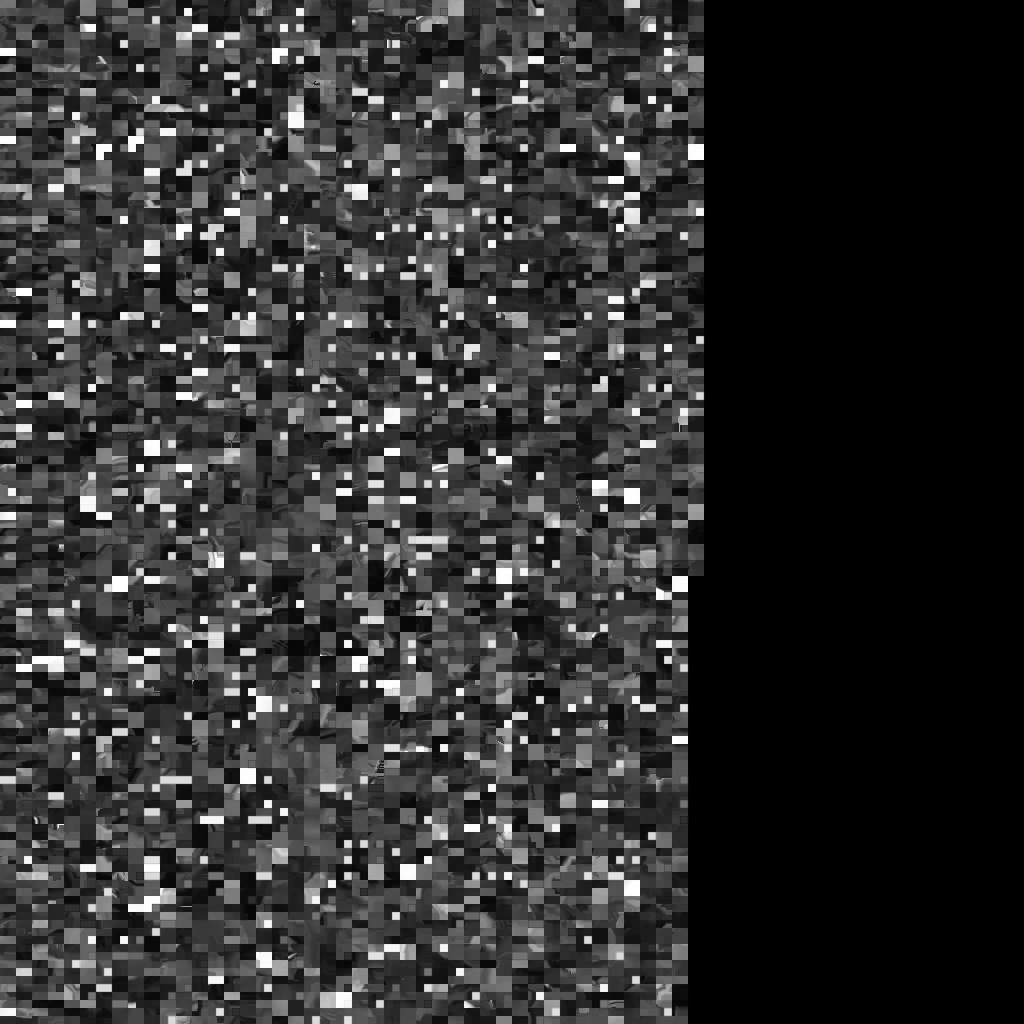
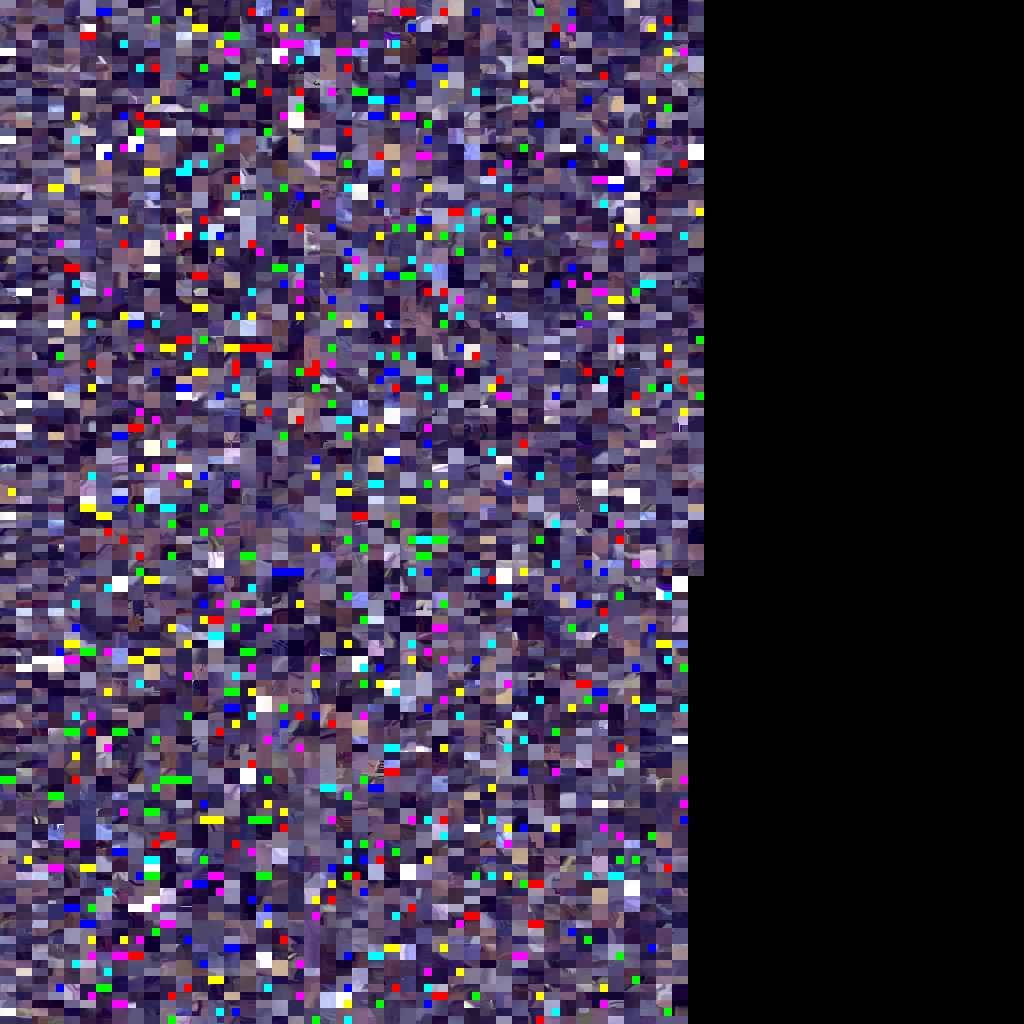
lighting

diff --git a/js/environment.js b/js/environment.js
@@ -106,7 +106,7 @@ var Environment =  {
 		Config.scene.add(cube);
 
 		var cube = new THREE.Mesh(new THREE.CubeGeometry(350, 150, 300), new THREE.MeshPhongMaterial());
-		cube.position.set(350,150,-170);
+		cube.position.set(350,150,-300);
 		Config.scene.add(cube);
 
 		var cube = new THREE.Mesh(new THREE.CubeGeometry(350, 150, 500), new THREE.MeshPhongMaterial());
@@ -170,7 +170,7 @@ var Environment =  {
 
 		var loader = new THREE.JSONLoader();
 	    loader.load( "room.js", function(geometry, materials){
-	      	mesh = new THREE.Mesh( geometry, new THREE.MeshFaceMaterial( materials ) );
+	      	mesh = new THREE.Mesh( geometry, new THREE.MeshLambertMaterial( materials ) );
 	      	mesh.position={x:0, y:0, z:0};
 	      	mesh.scale={x:40, y:40, z:40};
 	      	mesh.rotation.x = 90 * Math.PI/180;
@@ -179,8 +179,8 @@ var Environment =  {
 	      	mesh.name = 'room1';
 	      	Config.scene.add(mesh);
 
-	      	mesh = new THREE.Mesh( geometry, new THREE.MeshFaceMaterial( materials ) );
-	      	mesh.position={x:0, y:120, z:0};
+	      	mesh = new THREE.Mesh( geometry, new THREE.MeshLambertMaterial( materials ) );
+	      	mesh.position={x:0, y:150, z:0};
 	      	mesh.scale={x:40, y:40, z:40};
 	      	mesh.rotation.x = 90 * Math.PI/180;
 	      	mesh.rotation.y = 180 * Math.PI/180;
@@ -201,24 +201,24 @@ var Environment =  {
 
 	zoom: function(){
 
+		$("#enter").fadeOut();
 		this.canRotate = false;
 		room1 = Config.scene.getObjectByName('room1');
 		room1.visible = true;
 		
-		TweenLite.to(Config.camera.position,3, {x:0, y:0, z:50,  ease:Cubic.easeOut, onComplete:Environment.addAmbient});
-		// TweenLite.to(Config.camera.rotation,3, {x:0, y:0, z:0,  ease:Cubic.easeOut});
+		TweenLite.to(Config.camera.position,3, {x:0, y:0, z:50,  ease:Cubic.easeOut, onComplete:Environment.changeControls});
 		
-		
+		light = Config.scene.getObjectByName("ambi");
+		TweenLite.to(light.color,7, {r:.3, g:.3, b:.3,  ease:Cubic.easeOut, onComplete:Environment.changeControls});		
 
 
 	},
 
-	addAmbient: function(){
+	changeControls: function(){
 
-		controls = new THREE.DeviceOrientationControls(Config.camera);
-		controls.connect();
-		var ambientLight = new THREE.AmbientLight(0xffffff);
-      	Config.scene.add(ambientLight);
+		controls = new THREE.FlyControls(Config.camera);
+		controls.dragToLook = true;
+		
 
 	}
  

diff --git a/js/config.js b/js/config.js
@@ -26,29 +26,21 @@ var Config =  {
       this.camera.position.z = 800;
       this.camera.position.x = 700;
       this.camera.position.y = 450;
-      // this.camera.rotation.y = 45 * Math.PI/180;
-      // this.camera.rotation.z = 10 * Math.PI/180;
-      // this.camera.rotation.x = -70 * Math.PI/180;
+
 
       var light = new THREE.PointLight(0xffffff, .3,10000);
 	  light.position.set(0,0,500);
 	  this.scene.add(light);
 
-	  // var light2 = new THREE.PointLight(0xffffff, .8,1000);
-	  // light2.position.set(-400,500,200);
-	  // this.scene.add(light2);
+
 
 	  var ambientLight = new THREE.AmbientLight(0xa5a5a5);
+	  ambientLight.name = "ambi";
   	  this.scene.add(ambientLight);
 
       controls = new THREE.OrbitControls(this.camera);
 
 
-
-	    // controls = new THREE.DeviceOrientationControls(this.camera, true);
-     //    controls.connect();
-     	// controls = new THREE.FlyControls(this.camera);
-     	// controls.dragToLook = true;
 	   
 	    //hammertime code
 	    var myElement = document.getElementById('overlay');

diff --git a/js/logic.js b/js/logic.js
@@ -29,7 +29,7 @@ var Logic =  {
 		room1 = Config.scene.getObjectByName('room1');
 		room1.visible = false;
 		room1.position.x = 280;
-		room1.position.y = 120;
+		room1.position.y = 150;
 		room1.position.z = 0;
 	},
 
